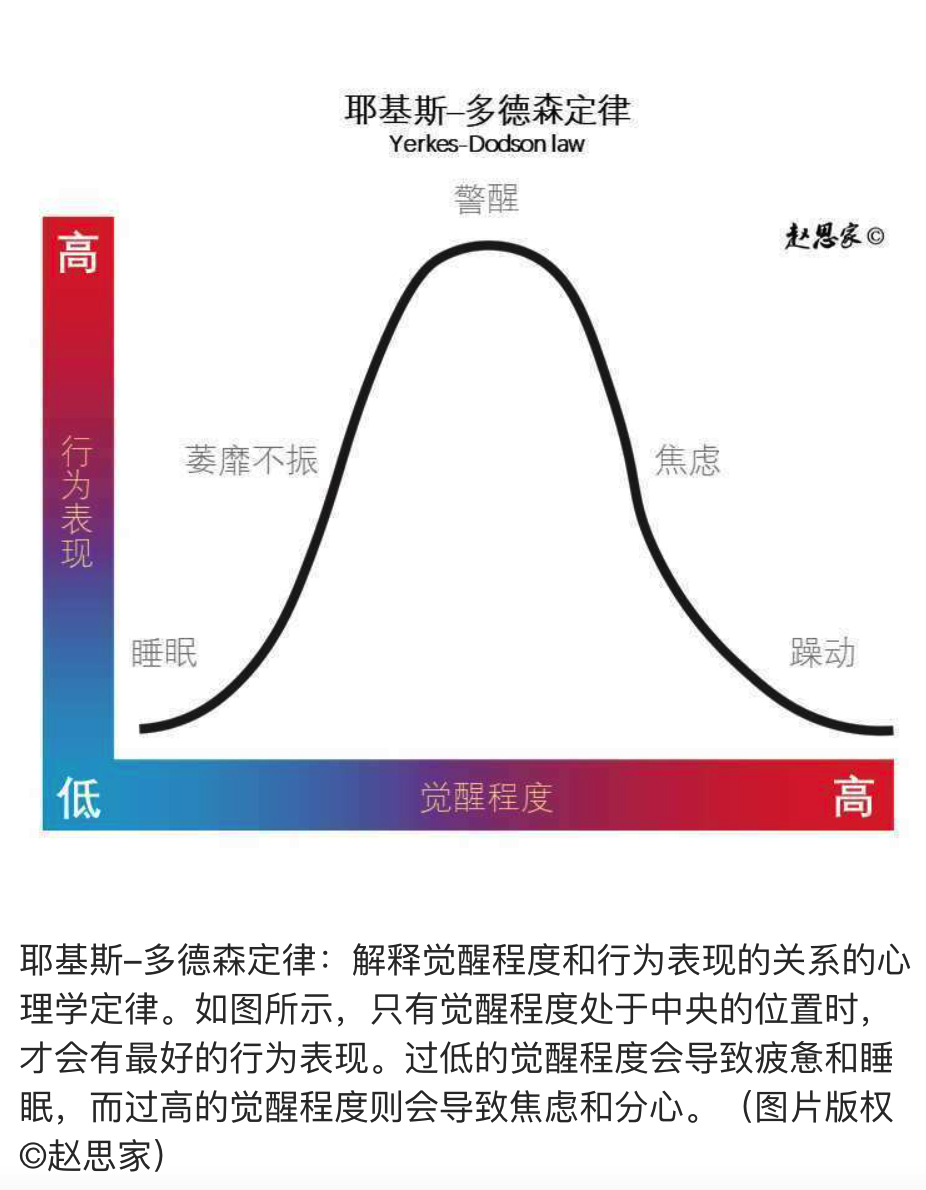
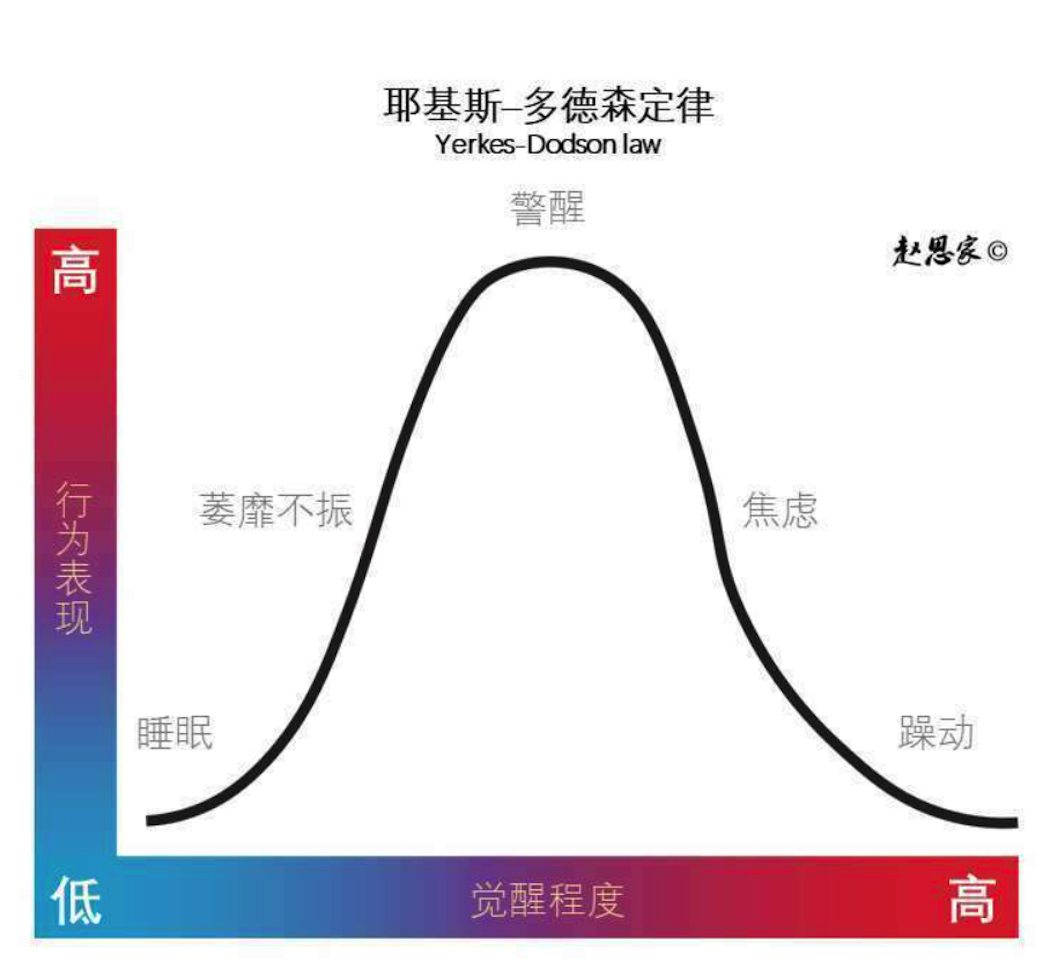
update

diff --git a/psychology/Brain.md b/psychology/Brain.md
@@ -36,6 +36,10 @@
   - [去甲肾上腺素是怎么控制觉醒状态的呢？](#去甲肾上腺素是怎么控制觉醒状态的呢)
   - [去甲肾上腺素究竟是什么？](#去甲肾上腺素究竟是什么)
 - [乙酰胆碱](#乙酰胆碱)
+  - [不能不说的尼古丁](#不能不说的尼古丁)
+  - [用“恶魔的呼吸”来控制他人](#用恶魔的呼吸来控制他人)
+  - [乙酰胆碱究竟是什么？](#乙酰胆碱究竟是什么)
+- [谷氨酸](#谷氨酸)
 
 # 引言
 神经递质是一种存在于大脑里的化学物质，大脑里的细胞用它与其他细胞进行沟通和信息交换。没有神经递质，我们的记忆、快乐、欲望、学习能力等等都不可能以现在的形式存在。
@@ -281,6 +285,8 @@
 
 <img src="Brain07.png" width="400" />
 
+>耶基斯-多德森定律：解释觉醒程度和行为表现的关系的心理学定律。如图所示，只有觉醒程度处于中央的位置时，才会有最好的行为表现。过低的觉醒程度会导致疲惫和睡眠，而过高的觉醒程度则会导致焦虑和分心。（图片版权©赵思家）
+
 ## “聪明药”真的能让人变聪明吗？
 最为有名的“聪明药”可能是安非他命。服用安非他命可以提高去甲肾上腺素和多巴胺在大脑中的浓度，它原本是用来治疗儿童多动症的。多动症患者特别难维持注意力，而且在明知不可以乱动的情况下，依然特别想动来动去，还很难控制自己的情绪，这些症状会影响到患者的生活和学习，往往从他们童年时开始出现，一般情况下，在6岁到12岁之间变得明显。多动症患者的大脑中多巴胺的作用较弱。当我们仔细检查他们的基因时，就会发现某些与多巴胺相关的基因出现了异常，使得他们的大脑似乎对多巴胺没有那么敏感，进而导致大脑习惯性地生产更多的多巴胺，换言之，多巴胺的工作效率变低了。除了多巴胺，在多动症患者的大脑里，去甲肾上腺素也出现了一些问题。所以当下针对多动症治疗的药物往往与提高多巴胺和去甲肾上腺素的工作效率有关，而安非他命就是个很好的例子。
 
@@ -299,6 +305,8 @@
 
 <img src="Brain08.png" width="400" />
 
+>负责生产去甲肾上腺素的神经细胞的两种激活模式。黑色箭头的位置是指那时给动物一个明显的外界刺激（比如说一个短暂的响声）。警觉状态下的动物在接收到这样令它惊呀的刺激后，蓝斑核里的神经细胞会提高神经激活率，并生产去甲肾上腺素。（图片版权©赵思家）
+
 在理想状态下，外界给大脑一个明显的刺激，生产去甲肾上腺素的神经细胞就会自动地切换到紧张性模式。但这种紧张性模式是否出现，和神经细胞处于怎样的位相性状态有关。当细胞长期处于低位相性的状态时，人会处于低觉醒状态，趋近睡眠、无力，对周围发生的变化没有警觉性（想象一下你在很困的时候去玩手机游戏）。当细胞处于极高位相性的状态时，人会过于亢奋甚至焦虑，或是一感受到风吹草动就感到紧张、容易走神。在这两种极端情况之下，神经细胞都不会对刺激产生紧张性反应。而只有当紧张性反应达到其最高值的时候，人的警觉性才是最高的，任务表现也最优。
 
 <img src="Brain09.png" width="400" />
@@ -308,6 +316,8 @@
 我们可以结合前文中提到的耶基斯–多德森定律，来理解两种神经激活模式、觉醒程度和行为表现四者的关系（见下页）。位相性水平与觉醒程度成正相关，位相性越高，觉醒程度越高；紧张性水平和行为表现成正相关，能够产生的紧张性越高，表现越好、警觉性越高；而位相性与紧张性成钟形曲线关系，位相性过低或过高，紧张性都低，类似地，觉醒程度过低或过高，行为表现都不会很好。这个理论叫作自适应增益理论（adaptive gain theory），由阿斯顿-琼斯（Aston-Jones）和科恩（Cohen）在2005年提出。
 
 <img src="Brain10.png" width="400" />
+
+>我们将神经细胞的激活模式与觉醒程度（x轴）以及行为表现与紧张水平（y轴）结合来看。（图片版权©赵思家）
 
 说到这里，这样的一套理论确实很好地解释了去甲肾上腺素是如何调控人的“警觉性”的。那之前提到的“探索和开发的利弊权衡”又和去甲肾上腺素有什么关系呢？说到这个，又要说回上图中的耶基斯–多德森定律钟形曲线。当人处于紧张性最高的状态时，恰为注意力集中的时候，大脑会选择开发（exploit）模式——其实就是专心致志地做手头的工作；而当位相性变得更高的时候，会开启探索（exploration）模式——其实就是容易分心、想东想西的状态。
 
@@ -319,7 +329,53 @@
 多巴胺是奖励的意外性，血清素是惩罚的意外性，而去甲肾上腺素是信息的意外性。这里“信息”一词的含义非常宽泛——从感知信息到认知信息。
 
 # 乙酰胆碱
+- 籍贯：但脑里主要有三个，按它们的地理位置和所生产的乙酰胆碱最后作用的位置，可以分为两组：
+  - 基底前脑：迈纳特基底核（basal nucleus of Meynert）和内侧隔核（medial septal nuclei）
+  - 脑干：脑桥-中脑被盖复合体（Pontomesencephalo tegmental complex）
+- 常居地：大脑的几乎全部脑区都有
+- 弱点
+  - 失去学习的能力
+  - 阿尔茨海默病
+- 技能
+  - 形成新记忆(95%)
+  - 能量感(85%)
 
+<img src="Brain11.png" width="400" />
 
+>乙酰胆碱在人类大脑中的分布图。黑框里的标记为产地，箭柄为通路方向，箭头则为常居地。乙酰胆碱在大脑里有三个主要的产地，它们相对应的通路已用不同的蓝色标识出来了。（图片版权©赵思家）
 
+## 不能不说的尼古丁
+香烟里的主要化学成分尼古丁长得和乙酰胆碱特别像，所以吸入尼古丁的反应约等于吸入大量的乙酰胆碱。
+
+从本质上讲，尼古丁是一种乙酰胆碱受体的激动剂。受体是一种位于神经细胞的外壳上的接收器，这个我们在第二章以及第四章血清素那里都简单介绍过。当乙酰胆碱靠近受体的时候，就会像把一片面包放进烤面包机，将受体激活。受体一被激活，就会在神经细胞里产生一系列反应，这样信息就从一个神经细胞传递到了另一个神经细胞。说“尼古丁是一种乙酰胆碱受体的激动剂”，就是指尼古丁和乙酰胆碱长得很像，它会模仿乙酰胆碱的活动，激活乙酰胆碱受体。
+
+不仅如此，相比乙酰胆碱，尼古丁和乙酰胆碱受体结合的效果太好了，比乙酰胆碱更好、更强、更紧密。为了避免持续激活神经细胞，乙酰胆碱和乙酰胆碱受体的结合非常简单和短暂，而且被释放后很快就会被其他高活性酶给分解掉。但尼古丁和乙酰胆碱受体一碰上，就很难分开。这两者差多远呢？从它们的半衰期就能看出来，乙酰胆碱在大脑里的半衰期为1分钟，而尼古丁的半衰期长达2小时。尼古丁和乙酰胆碱受体的结合时间大大加长，等于大脑里乙酰胆碱的量被人为地大大增高了。
+
+人为地在大脑里加入大量的尼古丁，就像是在一个原本健康的经济体里注入大量的假钞，而且这个假钞不仅比普通纸币经用，从实际价值上还是1元假钞兑换100元真钞的神奇物件。
+
+面对这样的情况，大脑试图适应。在吸烟者的神经细胞上，乙酰胆碱受体的数量要比一般人多得多，大部分与尼古丁相结合，剩下的与乙酰胆碱结合的受体的数量才和一般人的差不多。因为大脑已有的调控系统无法调节外来的尼古丁，只好通过增加乙酰胆碱的产量来与尼古丁竞争。
+
+因为乙酰胆碱有着唤醒大脑和身体的功能，吸烟之后人会体会到“能量感”，甚至能短时间内反应速度提高，同时还能感到平静和舒缓。因此很多人在工作之余会通过抽烟来缓解疲劳。但要注意的是，这样的正面效果是非常短暂的。一旦上瘾后，这样的能量感会消失，取而代之的是疲惫感。
+
+那为什么尼古丁会令人上瘾呢？抽过烟的人应该有所体会，抽烟后会有种莫名其妙的愉悦感。这是因为尼古丁能间接地刺激负责管理奖励系统的神经细胞，让它们分泌多巴胺。但正如在第二章提到过的，大脑会逐渐适应这样的信号，其实有烟瘾的人不是真的每次都体会到了吸入尼古丁的愉悦感，而是为了避免戒断所带来的不适才持续吸烟的。
+
+## 用“恶魔的呼吸”来控制他人
+乙酰胆碱是怎么帮助记忆形成的呢？有一个理论是，高浓度的乙酰胆碱可以加强存储记忆的海马体和传递感知信号之间的大脑回路，同时抑制大脑提取无关的内容。打个比方，若是想要记住刘看山（知乎网站官方萌物）的长相，你得睁大眼多瞅瞅它的样子，让更多关于它的感知信息涌入储存记忆的海马体，而不是让一些奇怪的东西乱入。换句话说，乙酰胆碱控制了信息流，从而直接影响相关记忆的形成。
+
+与此相关的一个现象是，在人进入快速眼动睡眠期的时候，大脑会产生很多乙酰胆碱。这些乙酰胆碱是用来干吗的呢？有一种合理推断是，它和睡眠时的记忆巩固有关。
+
+当你醒着的时候，高浓度的乙酰胆碱帮助感知信号转化为记忆；当你刚入睡，进入慢波睡眠的时候，乙酰胆碱浓度变低；当你进入快速眼动睡眠期的时候，开始巩固今天一天的记忆，所以乙酰胆碱浓度又升高了。
+
+## 乙酰胆碱究竟是什么？
+与去甲肾上腺素相对，乙酰胆碱被认为是“意料之内的不确定性”。当然，这也只是一个推测，也是彼得·达扬提出的。
+
+不确定性怎么能在意料之内呢？在上一章的结尾我们提到，去甲肾上腺素是“意料之外的不确定性”。
+
+“意料之内的不确定性”指的是一个长期的状态，而“意料之外的不确定性”往往指的是单一事件。
+
+你可能已经注意到了，“意料之内的不确定性”和“意料之外的不确定性”并不是完全独立的，它们在某些时刻有一定关联。比如，英国脱欧后很长一段时间内，汇率都极不稳定，换言之，一个意料之外的不确定事件后往往会伴随着较高的意料之内的不确定性。当我们同时观察去甲肾上腺素和乙酰胆碱时，也会发现这一关联。
+
+但相比去甲肾上腺素，乙酰胆碱是不是真的负责监控信息中的“意料之内的不确定性”，我们对此的了解还不算充足。而且这一理论，就现在看来，似乎也不能很完美地解释乙酰胆碱其他的相关功能。
+
+# 谷氨酸
 
